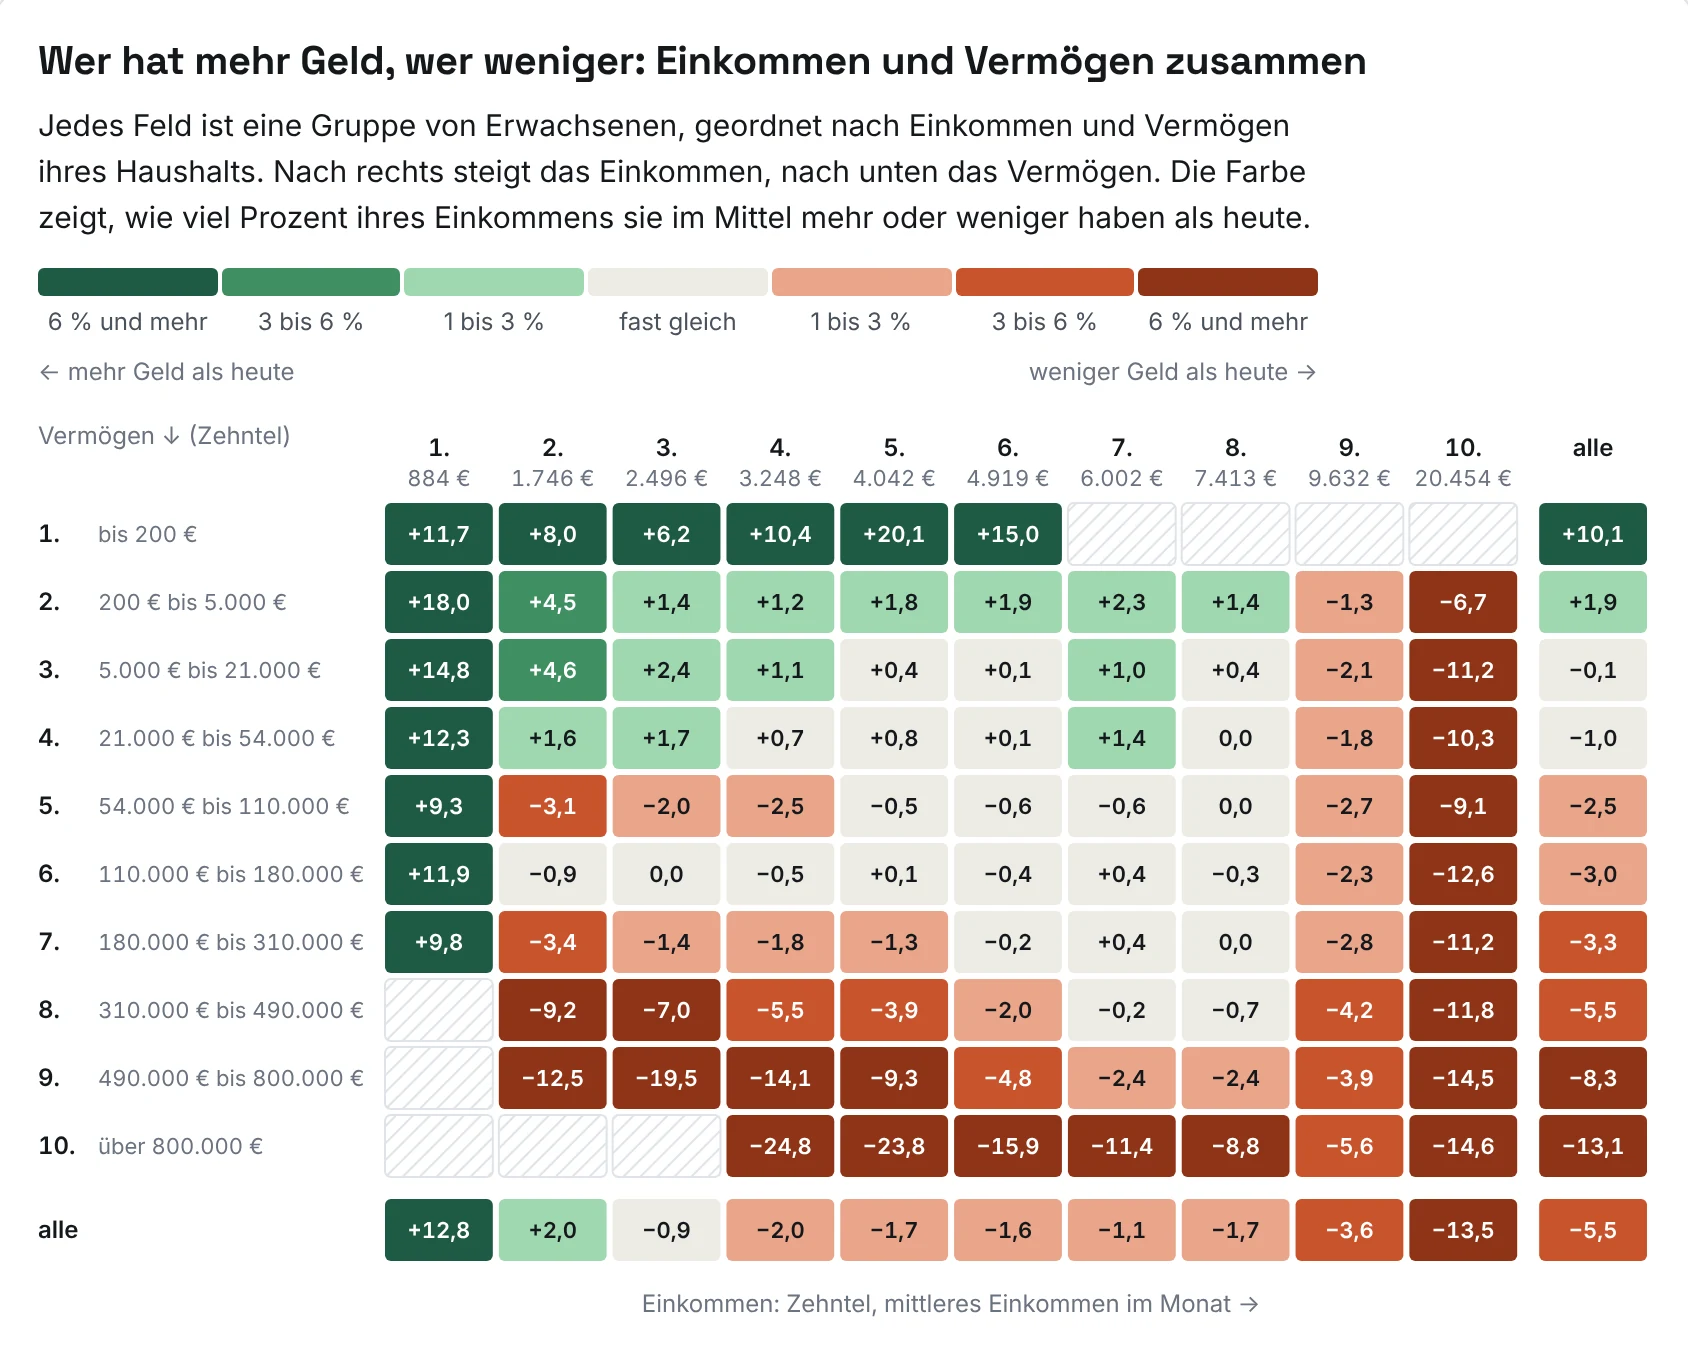
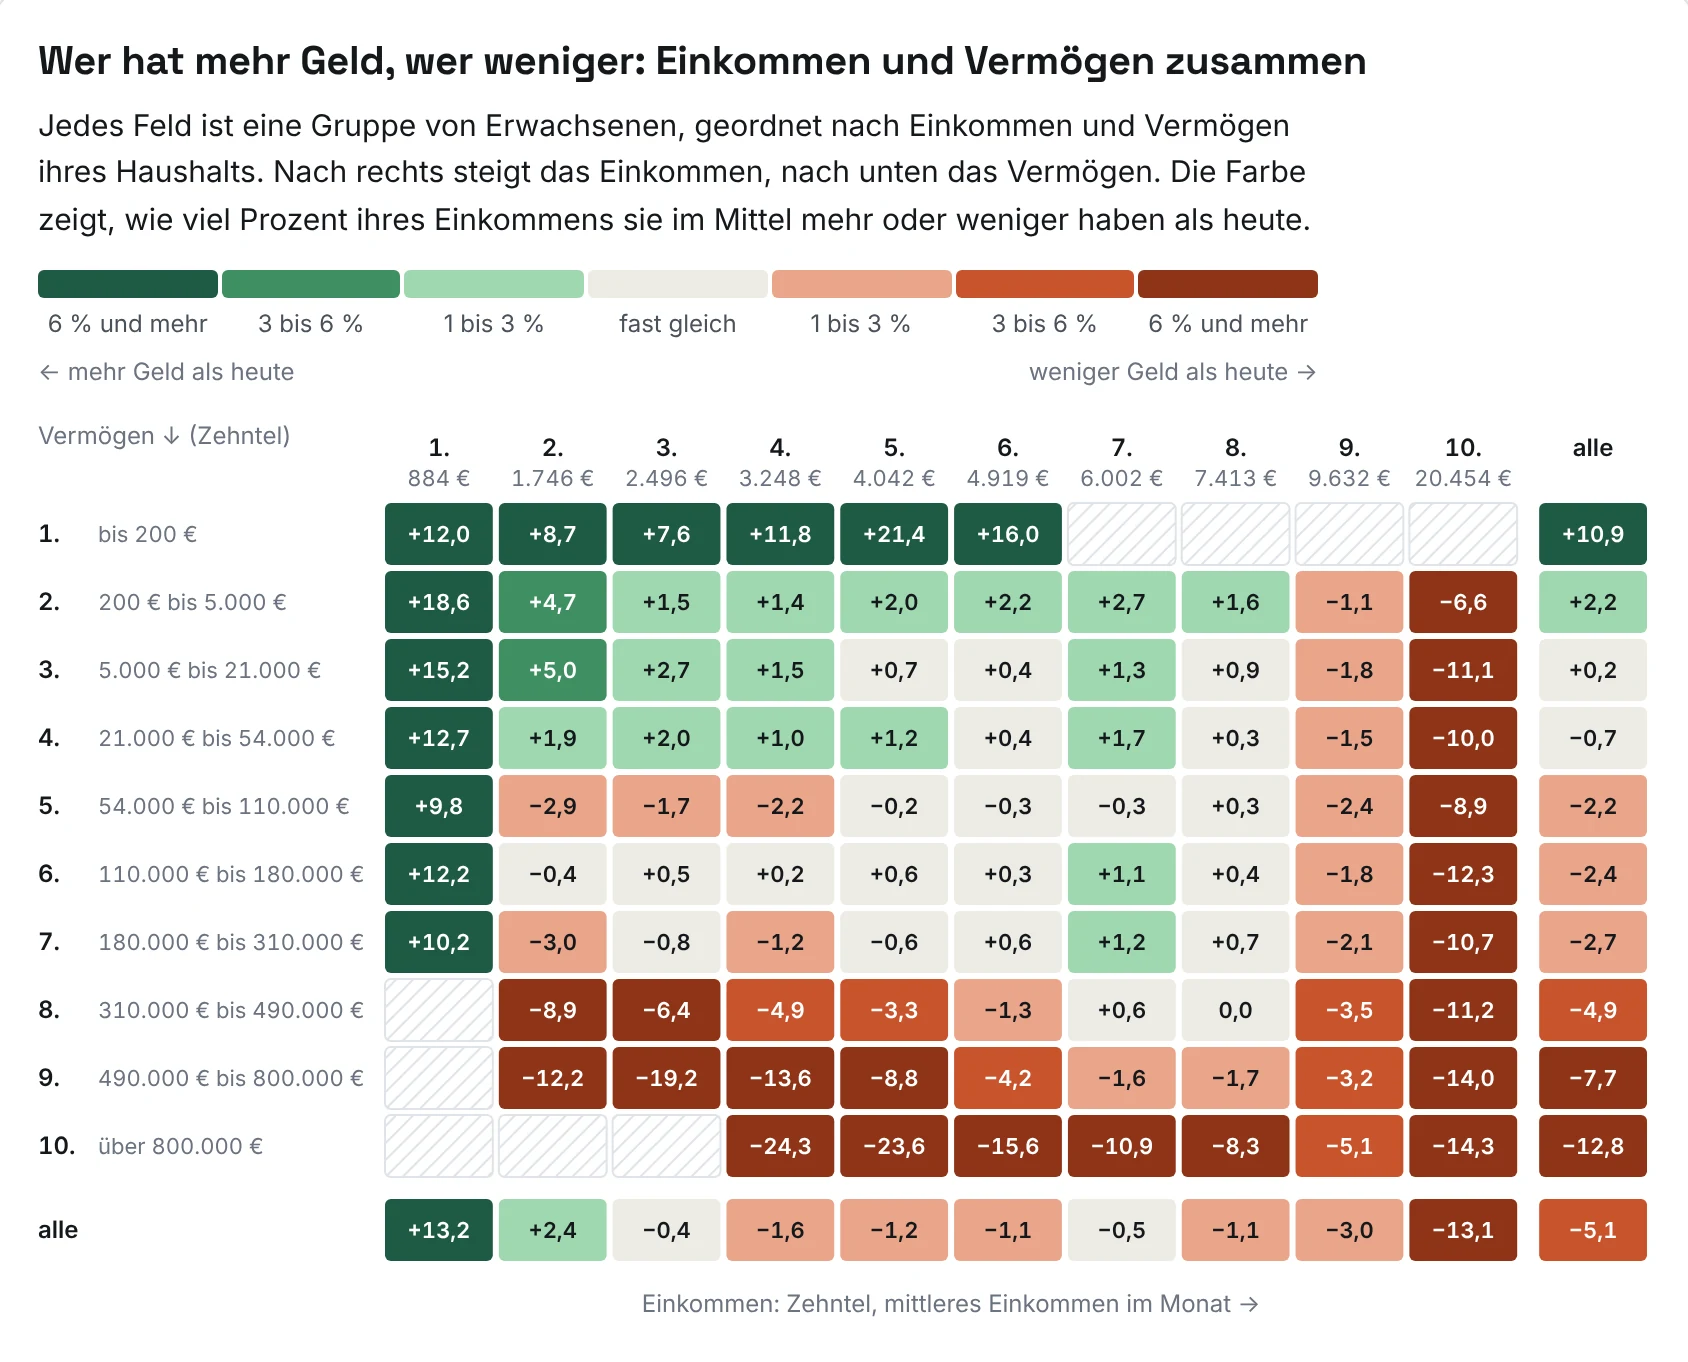
Farbfelder der Startseite und Bilder der Steuerlast-Seite mit den Regeln vom 21.11.
Neuer Lauf der Mikrosimulation (Kinderfreibetrag 600 €, neue Hausregel); Alt-Texte mit dem typischen
Menschen (2048: +14,0 %, 264 € im Monat).

Claude-Session: https://claude.ai/code/session_012Y93VcoN35D38RtTTtR6vF

diff --git a/index.html b/index.html
@@ -42,7 +42,7 @@
 <div class="card"><span class="big">69 von 100</span><p>Menschen haben zum Start mehr Geld als ohne Reform, wenn sie so viel einkaufen wie heute, Kinder mitgezählt. Ab 2045 sind es rund 75 von 100. Gegen heute gerechnet haben 63 von 100 Menschen mehr. Eine Familie mit zwei Kindern, 5.000 € brutto und eigenem Haus hat 1.373 € im Monat mehr.</p></div>
 <div class="card"><span class="big">trägt sich</span><p>Wer im bezahlten eigenen Haus wohnt oder schon Rente bezieht, zahlt nicht doppelt. Aus altem, schon versteuertem Ersparten bleiben zusätzlich zum Freibetrag 1.715 € im Jahr frei. Mit dem Zukunftsplan ist der Staat im mittleren Fall 2088 schuldenfrei, ohne höhere Mehrwertsteuer, im zuversichtlichen Fall schon 2053. Jede Zahl ist im Buch erklärt und hier im Rechner nachprüfbar.</p></div>
 </div>
-<figure class="steuerlast" id="ohne-reform"><div class="or-wahl" role="group" aria-label="Jahr wählen"><button type="button" data-j="2038" aria-pressed="false">nach 10 Jahren</button><button type="button" data-j="2048" aria-pressed="true">nach 20 Jahren</button><button type="button" data-j="2058" aria-pressed="false">nach 30 Jahren</button><button type="button" data-j="2068" aria-pressed="false">nach 40 Jahren</button><button type="button" data-j="2070" aria-pressed="false">2070</button></div><img id="or-bild" src="bilder/ohne-reform/mit-gegen-ohne-reform-2048.webp" width="1840" height="1568" loading="lazy" alt="Farbfeld nach Einkommen und Vermögen, 2048: Der typische Mensch hat mit der Reform 14 % seines Haushaltseinkommens mehr als ohne Reform, 262 € im Monat. Über alle Einkommen zusammen sind es +2,5 %, weil das oberste Zehntel schwer zählt. Mehr haben vor allem die unteren und mittleren Einkommen, weniger vor allem Menschen in Haushalten mit mehr als 300.000 € Vermögen und im obersten Zehntel der Einkommen."><figcaption>Wer mit der Reform mehr Geld hat als ohne sie, im selben Jahr, für alle Menschen samt Kindern nach Einkommen (nach rechts) und Vermögen ihres Haushalts (nach unten), im mittleren Fall, mit dem wahrscheinlichen Umstieg auf E-Auto, Wärmepumpe und Solarstrom. Ohne Reform steigen die Kosten des Alterns über Beiträge und Steuern. Weniger haben vor allem Menschen in Haushalten mit mehr als 300.000 € Vermögen und im obersten Zehntel der Einkommen. <a href="steuerlast/">Gegen heute gerechnet: Wer die Reform bezahlt</a></figcaption></figure>
+<figure class="steuerlast" id="ohne-reform"><div class="or-wahl" role="group" aria-label="Jahr wählen"><button type="button" data-j="2038" aria-pressed="false">nach 10 Jahren</button><button type="button" data-j="2048" aria-pressed="true">nach 20 Jahren</button><button type="button" data-j="2058" aria-pressed="false">nach 30 Jahren</button><button type="button" data-j="2068" aria-pressed="false">nach 40 Jahren</button><button type="button" data-j="2070" aria-pressed="false">2070</button></div><img id="or-bild" src="bilder/ohne-reform/mit-gegen-ohne-reform-2048.webp" width="1840" height="1568" loading="lazy" alt="Farbfeld nach Einkommen und Vermögen, 2048: Der typische Mensch hat mit der Reform 14 % seines Haushaltseinkommens mehr als ohne Reform, 264 € im Monat. Über alle Einkommen zusammen sind es +2,6 %, weil das oberste Zehntel schwer zählt. Mehr haben vor allem die unteren und mittleren Einkommen, weniger vor allem Menschen in Haushalten mit mehr als 300.000 € Vermögen und im obersten Zehntel der Einkommen."><figcaption>Wer mit der Reform mehr Geld hat als ohne sie, im selben Jahr, für alle Menschen samt Kindern nach Einkommen (nach rechts) und Vermögen ihres Haushalts (nach unten), im mittleren Fall, mit dem wahrscheinlichen Umstieg auf E-Auto, Wärmepumpe und Solarstrom. Ohne Reform steigen die Kosten des Alterns über Beiträge und Steuern. Weniger haben vor allem Menschen in Haushalten mit mehr als 300.000 € Vermögen und im obersten Zehntel der Einkommen. <a href="steuerlast/">Gegen heute gerechnet: Wer die Reform bezahlt</a></figcaption></figure>
 <div class="cta"><div><h3>Was bedeutet das für deinen Haushalt?</h3><p style="margin:0;color:var(--muted)">Der Steuerrechner vergleicht heute und Vorschlag, zeigt die Staatsfinanzen bis 2070 und die CO₂-Abgabe. Er läuft im Browser und speichert nichts.</p></div><a class="btn" href="steuerrechner/">Jetzt nachrechnen</a></div>
 <div class="cta"><div><h3>E-Auto oder Verbrenner?</h3><p style="margin:0;color:var(--muted)">Was ein Elektroauto über sein ganzes Leben im Vergleich zum Verbrenner kostet, privat oder als Dienstwagen. Mit den Regeln für Kfz-Steuer und Dienstwagen, Stand 2026.</p></div><a class="btn ghost" href="eauto-rechner/">E-Auto nachrechnen</a></div>
 <div class="cta"><div><h3>Wärmepumpe, Gas oder Öl?</h3><p style="margin:0;color:var(--muted)">Was eine neue Heizung über 20 Jahre kostet: mit Förderung, CO₂-Preis und der neuen Pflicht zur Bio-Beimischung, Stand 2026. Dazu Dämmen und neue Fenster: niedrigere Vorlauftemperatur, bessere Wärmepumpe, weniger CO₂, auch mit dynamischem Tarif.</p></div><a class="btn ghost" href="heizungsrechner/">Heizung nachrechnen</a></div>
@@ -104,6 +104,6 @@
 </main>
 <footer><div class="wrap"><span>© 2026 Tomas Hecker · Mut zur Zukunft · Alle Angaben ohne Gewähr</span><nav aria-label="Rechtliches"><a href="impressum.html#haftung">Haftungsausschluss</a><a href="impressum.html">Impressum</a><a href="datenschutz.html">Datenschutz</a></nav></div></footer>
 <script src="satz.js" defer></script>
-<script>(()=>{const A={"2038": "Farbfeld nach Einkommen und Vermögen, 2038: Der typische Mensch hat mit der Reform 8 % seines Haushaltseinkommens mehr als ohne Reform, 154 € im Monat. Über alle Einkommen zusammen sind es −1,4 %, weil das oberste Zehntel schwer zählt. Mehr haben vor allem die unteren und mittleren Einkommen, weniger vor allem Menschen in Haushalten mit mehr als 300.000 € Vermögen und im obersten Zehntel der Einkommen.", "2048": "Farbfeld nach Einkommen und Vermögen, 2048: Der typische Mensch hat mit der Reform 14 % seines Haushaltseinkommens mehr als ohne Reform, 262 € im Monat. Über alle Einkommen zusammen sind es +2,5 %, weil das oberste Zehntel schwer zählt. Mehr haben vor allem die unteren und mittleren Einkommen, weniger vor allem Menschen in Haushalten mit mehr als 300.000 € Vermögen und im obersten Zehntel der Einkommen.", "2058": "Farbfeld nach Einkommen und Vermögen, 2058: Der typische Mensch hat mit der Reform 15,2 % seines Haushaltseinkommens mehr als ohne Reform, 274 € im Monat. Über alle Einkommen zusammen sind es +2,6 %, weil das oberste Zehntel schwer zählt. Mehr haben vor allem die unteren und mittleren Einkommen, weniger vor allem Menschen in Haushalten mit mehr als 300.000 € Vermögen und im obersten Zehntel der Einkommen.", "2068": "Farbfeld nach Einkommen und Vermögen, 2068: Der typische Mensch hat mit der Reform 16 % seines Haushaltseinkommens mehr als ohne Reform, 291 € im Monat. Über alle Einkommen zusammen sind es +2,7 %, weil das oberste Zehntel schwer zählt. Mehr haben vor allem die unteren und mittleren Einkommen, weniger vor allem Menschen in Haushalten mit mehr als 300.000 € Vermögen und im obersten Zehntel der Einkommen.", "2070": "Farbfeld nach Einkommen und Vermögen, 2070: Der typische Mensch hat mit der Reform 16,2 % seines Haushaltseinkommens mehr als ohne Reform, 295 € im Monat. Über alle Einkommen zusammen sind es +2,8 %, weil das oberste Zehntel schwer zählt. Mehr haben vor allem die unteren und mittleren Einkommen, weniger vor allem Menschen in Haushalten mit mehr als 300.000 € Vermögen und im obersten Zehntel der Einkommen."},b=document.getElementById("or-bild");document.querySelectorAll("#ohne-reform .or-wahl button").forEach(k=>k.addEventListener("click",()=>{document.querySelectorAll("#ohne-reform .or-wahl button").forEach(x=>x.setAttribute("aria-pressed",x===k));b.src=`bilder/ohne-reform/mit-gegen-ohne-reform-${k.dataset.j}.webp`;b.alt=A[k.dataset.j];}))})();</script>
+<script>(()=>{const A={"2038": "Farbfeld nach Einkommen und Vermögen, 2038: Der typische Mensch hat mit der Reform 7,8 % seines Haushaltseinkommens mehr als ohne Reform, 157 € im Monat. Über alle Einkommen zusammen sind es −1,3 %, weil das oberste Zehntel schwer zählt. Mehr haben vor allem die unteren und mittleren Einkommen, weniger vor allem Menschen in Haushalten mit mehr als 300.000 € Vermögen und im obersten Zehntel der Einkommen.", "2048": "Farbfeld nach Einkommen und Vermögen, 2048: Der typische Mensch hat mit der Reform 14 % seines Haushaltseinkommens mehr als ohne Reform, 264 € im Monat. Über alle Einkommen zusammen sind es +2,6 %, weil das oberste Zehntel schwer zählt. Mehr haben vor allem die unteren und mittleren Einkommen, weniger vor allem Menschen in Haushalten mit mehr als 300.000 € Vermögen und im obersten Zehntel der Einkommen.", "2058": "Farbfeld nach Einkommen und Vermögen, 2058: Der typische Mensch hat mit der Reform 15,1 % seines Haushaltseinkommens mehr als ohne Reform, 275 € im Monat. Über alle Einkommen zusammen sind es +2,6 %, weil das oberste Zehntel schwer zählt. Mehr haben vor allem die unteren und mittleren Einkommen, weniger vor allem Menschen in Haushalten mit mehr als 300.000 € Vermögen und im obersten Zehntel der Einkommen.", "2068": "Farbfeld nach Einkommen und Vermögen, 2068: Der typische Mensch hat mit der Reform 15,9 % seines Haushaltseinkommens mehr als ohne Reform, 289 € im Monat. Über alle Einkommen zusammen sind es +2,7 %, weil das oberste Zehntel schwer zählt. Mehr haben vor allem die unteren und mittleren Einkommen, weniger vor allem Menschen in Haushalten mit mehr als 300.000 € Vermögen und im obersten Zehntel der Einkommen.", "2070": "Farbfeld nach Einkommen und Vermögen, 2070: Der typische Mensch hat mit der Reform 16,1 % seines Haushaltseinkommens mehr als ohne Reform, 293 € im Monat. Über alle Einkommen zusammen sind es +2,8 %, weil das oberste Zehntel schwer zählt. Mehr haben vor allem die unteren und mittleren Einkommen, weniger vor allem Menschen in Haushalten mit mehr als 300.000 € Vermögen und im obersten Zehntel der Einkommen."},b=document.getElementById("or-bild");document.querySelectorAll("#ohne-reform .or-wahl button").forEach(k=>k.addEventListener("click",()=>{document.querySelectorAll("#ohne-reform .or-wahl button").forEach(x=>x.setAttribute("aria-pressed",x===k));b.src=`bilder/ohne-reform/mit-gegen-ohne-reform-${k.dataset.j}.webp`;b.alt=A[k.dataset.j];}))})();</script>
 </body>
 </html>
